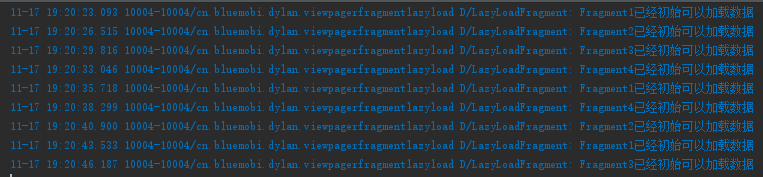
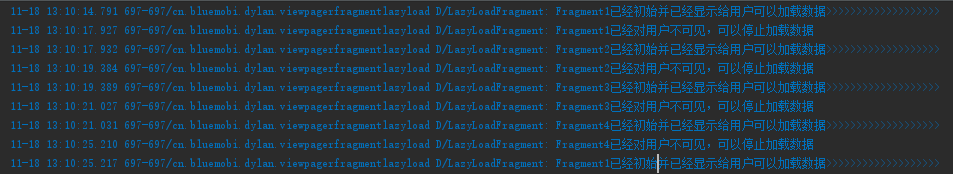
alert codes

diff --git a/app/src/main/java/cn/bluemobi/dylan/viewpagerfragmentlazyload/LazyLoadFragment.java b/app/src/main/java/cn/bluemobi/dylan/viewpagerfragmentlazyload/LazyLoadFragment.java
@@ -10,8 +10,11 @@ import android.view.ViewGroup;
 import android.widget.Toast;
 
 /**
- * 可以懒加载的Fragment
+ * Fragment预加载问题的解决方案：
+ * 1.可以懒加载的Fragment
+ * 2.切换到其他页面时停止加载数据（可选）
  * Created by yuandl on 2016-11-17.
+ * blog ：http://blog.csdn.net/linglongxin24/article/details/53205878
  */
 
 public abstract class LazyLoadFragment extends Fragment {
@@ -19,12 +22,14 @@ public abstract class LazyLoadFragment extends Fragment {
      * 视图是否已经初初始化
      */
     protected boolean isInit = false;
+    protected boolean isLoad = false;
     protected final String TAG = "LazyLoadFragment";
+    private View view;
 
     @Nullable
     @Override
     public View onCreateView(LayoutInflater inflater, @Nullable ViewGroup container, @Nullable Bundle savedInstanceState) {
-        View view = inflater.inflate(setContentView(), container, false);
+        view = inflater.inflate(setContentView(), container, false);
         isInit = true;
         /**初始化的时候去加载数据**/
         isCanLoadData();
@@ -47,8 +52,17 @@ public abstract class LazyLoadFragment extends Fragment {
      * 2.视图对用户可见
      */
     private void isCanLoadData() {
-        if (getUserVisibleHint() && isInit) {
+        if (!isInit) {
+            return;
+        }
+
+        if (getUserVisibleHint()) {
             lazyLoad();
+            isLoad = true;
+        } else {
+            if (isLoad) {
+                stopLoad();
+            }
         }
     }
 
@@ -59,6 +73,8 @@ public abstract class LazyLoadFragment extends Fragment {
     public void onDestroyView() {
         super.onDestroyView();
         isInit = false;
+        isLoad = false;
+
     }
 
     protected void showToast(String message) {
@@ -76,7 +92,34 @@ public abstract class LazyLoadFragment extends Fragment {
     protected abstract int setContentView();
 
     /**
+     * 获取设置的布局
+     *
+     * @return
+     */
+    protected View getContentView() {
+        return view;
+    }
+
+    /**
+     * 找出对应的控件
+     *
+     * @param id
+     * @param <T>
+     * @return
+     */
+    protected <T extends View> T findViewById(int id) {
+
+        return (T) getContentView().findViewById(id);
+    }
+
+    /**
      * 当视图初始化并且对用户可见的时候去真正的加载数据
      */
     protected abstract void lazyLoad();
+
+    /**
+     * 当视图已经对用户不可见并且加载过数据，如果需要在切换到其他页面时停止加载数据，可以调用此方法
+     */
+    protected void stopLoad() {
+    }
 }

diff --git a/app/src/main/java/cn/bluemobi/dylan/viewpagerfragmentlazyload/Fragment1.java b/app/src/main/java/cn/bluemobi/dylan/viewpagerfragmentlazyload/Fragment1.java
@@ -14,8 +14,13 @@ public class Fragment1 extends LazyLoadFragment {
 
     @Override
     protected void lazyLoad() {
-        String message = "Fragment1" + (isInit ? "已经初始可以加载数据" : "没有初始化不能加载数据");
+        String message = "Fragment1" + (isInit ? "已经初始并已经显示给用户可以加载数据" : "没有初始化不能加载数据")+">>>>>>>>>>>>>>>>>>>";
         showToast(message);
         Log.d(TAG, message);
+    }
+
+    @Override
+    protected void stopLoad() {
+        Log.d(TAG, "Fragment1" + "已经对用户不可见，可以停止加载数据");
     }
 }

diff --git a/app/src/main/java/cn/bluemobi/dylan/viewpagerfragmentlazyload/Fragment2.java b/app/src/main/java/cn/bluemobi/dylan/viewpagerfragmentlazyload/Fragment2.java
@@ -14,8 +14,12 @@ public class Fragment2 extends LazyLoadFragment {
 
     @Override
     protected void lazyLoad() {
-        String message = "Fragment2" + (isInit ? "已经初始可以加载数据" : "没有初始化不能加载数据");
+        String message = "Fragment2" + (isInit ? "已经初始并已经显示给用户可以加载数据" : "没有初始化不能加载数据")+">>>>>>>>>>>>>>>>>>>";
         showToast(message);
         Log.d(TAG, message);
+    }
+    @Override
+    protected void stopLoad() {
+        Log.d(TAG, "Fragment2" + "已经对用户不可见，可以停止加载数据");
     }
 }

diff --git a/app/src/main/java/cn/bluemobi/dylan/viewpagerfragmentlazyload/Fragment3.java b/app/src/main/java/cn/bluemobi/dylan/viewpagerfragmentlazyload/Fragment3.java
@@ -15,8 +15,12 @@ public class Fragment3 extends LazyLoadFragment {
 
     @Override
     protected void lazyLoad() {
-        String message = "Fragment3" + (isInit ? "已经初始可以加载数据" : "没有初始化不能加载数据");
+        String message = "Fragment3" + (isInit ? "已经初始并已经显示给用户可以加载数据" : "没有初始化不能加载数据")+">>>>>>>>>>>>>>>>>>>";
         showToast(message);
         Log.d(TAG, message);
+    }
+    @Override
+    protected void stopLoad() {
+        Log.d(TAG, "Fragment3" + "已经对用户不可见，可以停止加载数据");
     }
 }

diff --git a/app/src/main/java/cn/bluemobi/dylan/viewpagerfragmentlazyload/Fragment4.java b/app/src/main/java/cn/bluemobi/dylan/viewpagerfragmentlazyload/Fragment4.java
@@ -15,8 +15,12 @@ public class Fragment4 extends LazyLoadFragment {
 
     @Override
     protected void lazyLoad() {
-        String message = "Fragment4" + (isInit ? "已经初始可以加载数据" : "没有初始化不能加载数据");
+        String message = "Fragment4" + (isInit ? "已经初始并已经显示给用户可以加载数据" : "没有初始化不能加载数据")+">>>>>>>>>>>>>>>>>>>";
         showToast(message);
         Log.d(TAG, message);
+    }
+    @Override
+    protected void stopLoad() {
+        Log.d(TAG, "Fragment4" + "已经对用户不可见，可以停止加载数据");
     }
 }

diff --git a/README.md b/README.md
@@ -1,8 +1,9 @@
-#Android中ViewPager+Fragment懒加载问题解决方案
+#Android中ViewPager+Fragment取消(禁止)预加载延迟加载(懒加载)问题解决方案
 
 >在Android中我们经常会用到ViewPager+Fragment组合。然而，有一个很让人头疼的问题就是，我们去加载数据的时候
 由于ViewPager的内部机制所限制，所以它会默认至少预加载一个。这让人很郁闷，所以，我就想到要封装一个Fragment来解决这个问题。
-
+>这里还解决一个问题就是在[Android酷炫欢迎页播放视频,仿蚂蜂窝自由行和慕课网](http://blog.csdn.net/linglongxin24/article/details/53115253)
+ 这里感谢有一位网友提出了bug,就是在播放视频的时候如果滑动到第二页和第三页，第一页的视频还在播放，这是个让人很头疼的问题，在这里也完美解决。
 #1.问题初探
 文章开始已经说过ViewPager的预加载机制。那么，我们可不可以设置ViewPager的预加载为0，不就解决问题了吗？
 
@@ -66,8 +67,11 @@ import android.view.ViewGroup;
 import android.widget.Toast;
 
 /**
- * 可以懒加载的Fragment
+ * Fragment预加载问题的解决方案：
+ * 1.可以懒加载的Fragment
+ * 2.切换到其他页面时停止加载数据（可选）
  * Created by yuandl on 2016-11-17.
+ * blog ：http://blog.csdn.net/linglongxin24/article/details/53205878
  */
 
 public abstract class LazyLoadFragment extends Fragment {
@@ -75,12 +79,14 @@ public abstract class LazyLoadFragment extends Fragment {
      * 视图是否已经初初始化
      */
     protected boolean isInit = false;
+    protected boolean isLoad = false;
     protected final String TAG = "LazyLoadFragment";
+    private View view;
 
     @Nullable
     @Override
     public View onCreateView(LayoutInflater inflater, @Nullable ViewGroup container, @Nullable Bundle savedInstanceState) {
-        View view = inflater.inflate(setContentView(), container, false);
+        view = inflater.inflate(setContentView(), container, false);
         isInit = true;
         /**初始化的时候去加载数据**/
         isCanLoadData();
@@ -103,8 +109,17 @@ public abstract class LazyLoadFragment extends Fragment {
      * 2.视图对用户可见
      */
     private void isCanLoadData() {
-        if (getUserVisibleHint() && isInit) {
+        if (!isInit) {
+            return;
+        }
+
+        if (getUserVisibleHint()) {
             lazyLoad();
+            isLoad = true;
+        } else {
+            if (isLoad) {
+                stopLoad();
+            }
         }
     }
 
@@ -115,6 +130,8 @@ public abstract class LazyLoadFragment extends Fragment {
     public void onDestroyView() {
         super.onDestroyView();
         isInit = false;
+        isLoad = false;
+
     }
 
     protected void showToast(String message) {
@@ -132,9 +149,38 @@ public abstract class LazyLoadFragment extends Fragment {
     protected abstract int setContentView();
 
     /**
+     * 获取设置的布局
+     *
+     * @return
+     */
+    protected View getContentView() {
+        return view;
+    }
+
+    /**
+     * 找出对应的控件
+     *
+     * @param id
+     * @param <T>
+     * @return
+     */
+    protected <T extends View> T findViewById(int id) {
+
+        return (T) getContentView().findViewById(id);
+    }
+
+    /**
      * 当视图初始化并且对用户可见的时候去真正的加载数据
      */
     protected abstract void lazyLoad();
+
+    /**
+     * 当视图已经对用户不可见并且加载过数据，如果需要在切换到其他页面时停止加载数据，可以覆写此方法
+     */
+    protected void stopLoad() {
+    }
+}
+
 }
 
 ```
@@ -146,6 +192,7 @@ LazyLoadFragment是一个抽象类，可以作为BaseFragment,继承它。
  * (1).用setContentView()方法去加载要显示的布局
 
  * (2).lazyLoad()方法去加载数据
+ * (3).stopLoad()方法可选，当视图已经对用户不可见并且加载过数据，如果需要在切换到其他页面时停止加载数据，可以覆写此方法
  
  ```java
  package cn.bluemobi.dylan.viewpagerfragmentlazyload;
@@ -164,11 +211,17 @@ LazyLoadFragment是一个抽象类，可以作为BaseFragment,继承它。
  
      @Override
      protected void lazyLoad() {
-         String message = "Fragment1" + (isInit ? "已经初始可以加载数据" : "没有初始化不能加载数据");
+         String message = "Fragment1" + (isInit ? "已经初始并已经显示给用户可以加载数据" : "没有初始化不能加载数据")+">>>>>>>>>>>>>>>>>>>";
          showToast(message);
          Log.d(TAG, message);
      }
+ 
+     @Override
+     protected void stopLoad() {
+         Log.d(TAG, "Fragment1" + "已经对用户不可见，可以停止加载数据");
+     }
  }
+
 
  ```
  
